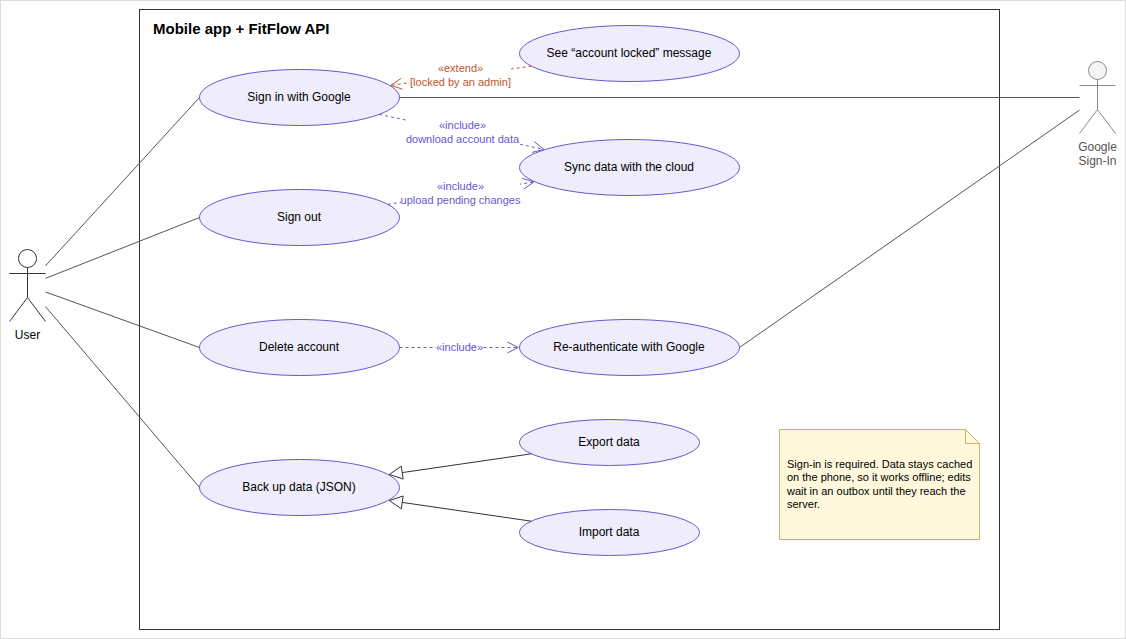
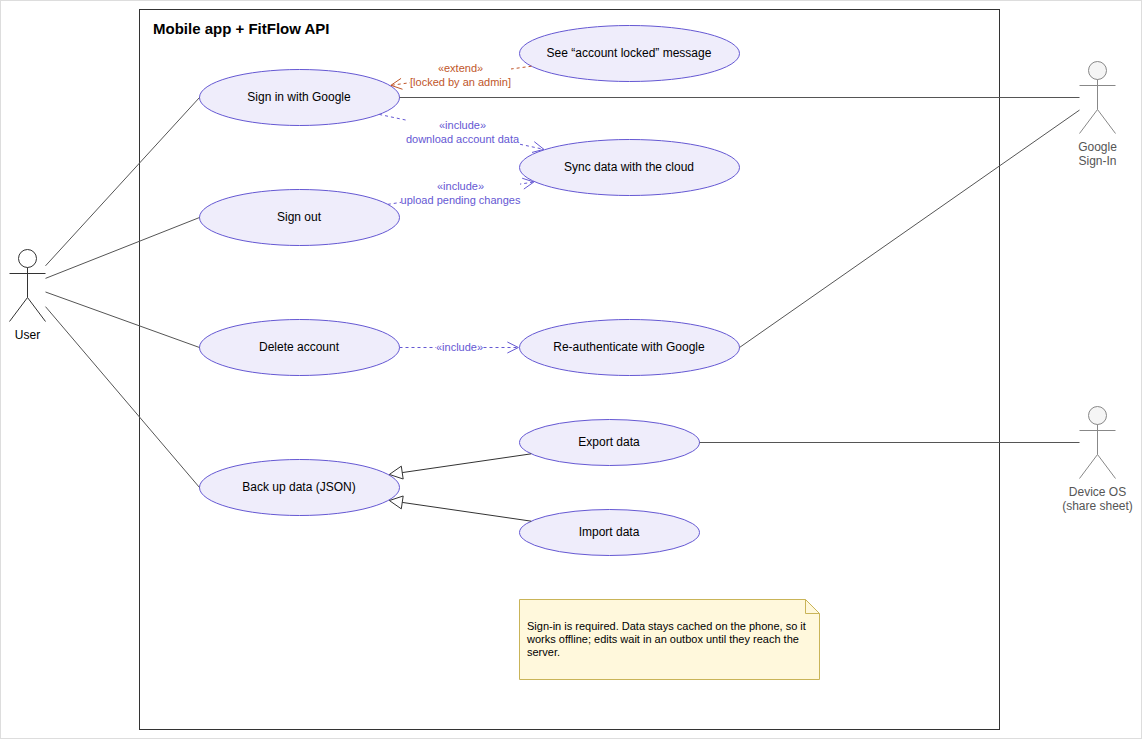
Match the use cases to what the app and admin web really do
- AI review is offered after a set of any analyzed exercise (not only
  squat); "Check exercise form" no longer hard-codes the exercise count.
- Counting sets with the camera includes "Count reps / hold & score form".
- The overview drops the vague "Get AI coaching": OpenAI links to Check
  exercise form, Plan workouts and Plan nutrition; the camera also serves
  guided workouts; Device OS serves progress (share) and backup (export).
- Account & data shows Export data going through the OS share sheet.
- "View chart as table" extends Monitor AI usage too.
- The model uses plain "&" (escaping is the emitters' job); the README
  explains refreshing the PNGs.

diff --git a/docs/usecase/generate.py b/docs/usecase/generate.py
@@ -53,17 +53,16 @@ def cases_in_column(ids_labels, x, y0, step, w=240, h=46):
 
 APP_CASES = [
     ('o1', 'Sign in with Google'),
-    ('o2', 'Plan workouts'),
-    ('o3', 'Do a guided workout'),
-    ('o4', 'Check exercise form'),
-    ('o5', 'Get AI coaching'),
-    ('o6', 'Plan nutrition &amp; log meals'),
-    ('o7', 'Track progress &amp; body metrics'),
-    ('o8', 'Manage settings &amp; reminders'),
-    ('o9', 'Back up &amp; sync data'),
+    ('o2', 'Do a guided workout'),
+    ('o3', 'Check exercise form'),
+    ('o4', 'Plan workouts'),
+    ('o5', 'Plan nutrition & log meals'),
+    ('o6', 'Track progress & body metrics'),
+    ('o7', 'Manage settings & reminders'),
+    ('o8', 'Back up & sync data'),
 ]
 ADMIN_CASES = [
-    ('a1', 'Sign in (email &amp; password)'),
+    ('a1', 'Sign in (email & password)'),
     ('a2', 'View statistics dashboard'),
     ('a3', 'Manage users'),
     ('a4', 'Manage workout templates'),
@@ -75,25 +74,29 @@ PAGES.append({
     'name': 'Overview',
     'title': 'FitFlow — Use cases (overview)',
     'shapes': [
-        box('boundary', 'sys', 'FitFlow system', 220, 20, 620, 1050),
-        box('package', 'pkgApp', 'Mobile app (Flutter) + FitFlow API', 240, 60, 580, 610),
-        box('package', 'pkgAdmin', 'Admin web (React) + admin API', 240, 700, 580, 350),
-        actor('user', 'User\n(trainee)', 90, 330),
-        actor('admin', 'Admin', 90, 840),
-        actor('google', 'Google\nSign-In', 960, row(0), system=True),
-        actor('camera', 'Camera +\nML Kit Pose', 960, row(2.5), system=True),
-        actor('openai', 'OpenAI\n(GPT models)', 960, row(4.6), system=True),
-        actor('os', 'Device OS\n(notifications, share)', 960, row(7), system=True),
+        box('boundary', 'sys', 'FitFlow system', 220, 20, 620, 990),
+        box('package', 'pkgApp', 'Mobile app (Flutter) + FitFlow API', 240, 60, 580, 550),
+        box('package', 'pkgAdmin', 'Admin web (React) + admin API', 240, 640, 580, 350),
+        actor('user', 'User\n(trainee)', 90, 300),
+        actor('admin', 'Admin', 90, 780),
+        actor('google', 'Google\nSign-In', 960, row(-0.4), system=True),
+        actor('camera', 'Camera +\nML Kit Pose', 960, row(1.7), system=True),
+        actor('openai', 'OpenAI\n(GPT models)', 960, row(3.6), system=True),
+        actor('os', 'Device OS\n(notifications, share)', 960, row(6), system=True),
         *cases_in_column(APP_CASES, 330, 100, 62),
-        *cases_in_column(ADMIN_CASES, 330, 750, 62),
+        *cases_in_column(ADMIN_CASES, 330, 690, 62),
     ],
     'edges': [
         *[('assoc', 'user', id, '') for id, _ in APP_CASES],
         *[('assoc', 'admin', id, '') for id, _ in ADMIN_CASES],
         ('assoc', 'o1', 'google', ''),
-        ('assoc', 'o4', 'camera', ''),
+        ('assoc', 'o2', 'camera', ''),
+        ('assoc', 'o3', 'camera', ''),
+        ('assoc', 'o3', 'openai', ''),
+        ('assoc', 'o4', 'openai', ''),
         ('assoc', 'o5', 'openai', ''),
-        ('assoc', 'o6', 'openai', ''),
+        ('assoc', 'o6', 'os', ''),
+        ('assoc', 'o7', 'os', ''),
         ('assoc', 'o8', 'os', ''),
     ],
 })
@@ -102,9 +105,10 @@ PAGES.append({
     'name': 'Account & data',
     'title': 'FitFlow — Account & data',
     'shapes': [
-        box('boundary', 'sys', 'Mobile app + FitFlow API', 220, 20, 860, 620),
+        box('boundary', 'sys', 'Mobile app + FitFlow API', 220, 20, 860, 720),
         actor('user', 'User', 90, 260),
         actor('google', 'Google\nSign-In', 1160, 72, system=True),
+        actor('os', 'Device OS\n(share sheet)', 1160, 453 - 36, system=True),
         uc('s1', 'Sign in with Google', C1, 80, 200),
         uc('s2', 'Sign out', C1, 200, 200),
         uc('s3', 'Delete account', C1, 330, 200),
@@ -114,7 +118,7 @@ PAGES.append({
         uc('s6', 'Re-authenticate with Google', C2, 330, 220),
         uc('s8', 'Export data', C2, 430, 180, 46),
         uc('s9', 'Import data', C2, 520, 180, 46),
-        box('note', 'n1', 'Sign-in is required. Data stays cached on the phone, so it works offline; edits wait in an outbox until they reach the server.', 860, 440, 200, 110),
+        box('note', 'n1', 'Sign-in is required. Data stays cached on the phone, so it works offline; edits wait in an outbox until they reach the server.', 600, 610, 300, 80),
     ],
     'edges': [
         ('assoc', 'user', 's1', ''),
@@ -129,6 +133,7 @@ PAGES.append({
         ('extend', 's7', 's1', '«extend»\n[locked by an admin]'),
         ('gen', 's8', 's4', ''),
         ('gen', 's9', 's4', ''),
+        ('assoc', 's8', 'os', ''),
     ],
 })
 
@@ -169,10 +174,10 @@ PAGES.append({
         uc('t4', 'Resume saved draft', C2 + 40, 270, 230),
         uc('t5', 'Count sets with camera', C2 + 40, 380, 230),
         uc('t6', 'Hands-free mode\n(spoken countdowns)', C3 + 120, 380, 230),
-        uc('f1', 'Check exercise form\n(7 exercises)', C1, 560, 210),
-        uc('f3', 'Count reps / hold\n&amp; score form', C2 + 40, 560, 230),
+        uc('f1', 'Check exercise form\n(every analyzed exercise)', C1, 560, 210),
+        uc('f3', 'Count reps / hold\n& score form', C2 + 40, 560, 230),
         uc('f2', 'Analyze pose in real time', C3 + 120, 470, 230),
-        uc('f4', 'Review squat set with AI', C2 + 40, 680, 230),
+        uc('f4', 'Review the set with AI', C2 + 40, 680, 230),
     ],
     'edges': [
         ('assoc', 'user', 't1', ''),
@@ -182,11 +187,11 @@ PAGES.append({
         ('extend', 't4', 't1', '«extend»\n[draft saved]'),
         ('extend', 't5', 't1', '«extend»\n[camera-checkable set]'),
         ('gen', 't6', 't5', ''),
-        ('include', 't5', 'f2', '«include»'),
+        ('include', 't5', 'f3', '«include»'),
         ('include', 'f1', 'f3', '«include»'),
         ('include', 'f3', 'f2', '«include»'),
         ('assoc', 'f2', 'camera', ''),
-        ('extend', 'f4', 'f1', '«extend»\n[squat]'),
+        ('extend', 'f4', 'f1', '«extend»\n[after a set]'),
         ('assoc', 'f4', 'openai', ''),
     ],
 })
@@ -200,7 +205,7 @@ PAGES.append({
         actor('openai', 'OpenAI', 1260, 190, system=True),
         uc('n1', 'View nutrition targets', C1, 60, 220),
         uc('n2', 'Update body profile', C1, 150, 220),
-        uc('n3', 'Log body weight\n&amp; view trend', C1, 240, 220),
+        uc('n3', 'Log body weight\n& view trend', C1, 240, 220),
         uc('n5', 'Log a meal', C1, 420, 220),
         uc('n4', 'Generate AI meal plan', C2, 60, 220),
         uc('n6', 'Log from food photo', C2, 330, 220, 46),
@@ -230,10 +235,10 @@ PAGES.append({
         actor('os', 'Device OS\n(notifications, share)', 1000, 300, system=True),
         uc('g1', 'View progress dashboard', C1, 60, 220),
         uc('g2', 'View muscle map', C1, 160, 220),
-        uc('g3', 'View achievements &amp; streak', C1, 260, 220),
+        uc('g3', 'View achievements & streak', C1, 260, 220),
         uc('g4', 'View session history', C1, 360, 220),
         uc('g6', 'Set workout reminders', C1, 480, 220),
-        uc('g7', 'Change theme &amp; units', C1, 570, 220, 46),
+        uc('g7', 'Change theme & units', C1, 570, 220, 46),
         uc('g5', 'Share summary card', C2, 60, 220),
         uc('g9', 'See exercises behind a muscle', C2, 160, 220),
         uc('g8', 'Edit or delete a session', C2, 360, 220),
@@ -254,17 +259,17 @@ PAGES.append({
     'shapes': [
         box('boundary', 'sys', 'Admin web (React) + admin API', 220, 20, 1220, 820),
         actor('admin', 'Admin', 90, 360),
-        uc('d0', 'Sign in (email &amp; password)', C1, 40, 220),
+        uc('d0', 'Sign in (email & password)', C1, 40, 220),
         uc('d1', 'View statistics dashboard', C1, 140, 220),
         uc('d2', 'Monitor AI usage', C1, 240, 220),
         uc('m1', 'Manage users', C1, 380, 220),
         uc('t0', 'Manage workout templates', C1, 620, 220),
         uc('d4', 'View chart as table', C2, 90, 200, 46),
         uc('d3', 'Choose date range', C2, 190, 200, 46),
-        uc('m2', 'Search &amp; filter users', C2, 330, 220, 46),
+        uc('m2', 'Search & filter users', C2, 330, 220, 46),
         uc('m3', 'View user details', C2, 430, 220, 46),
         uc('m4', 'Lock / unlock account', C3, 400, 220, 46),
-        uc('m5', 'Delete account &amp; data', C3, 480, 220, 46),
+        uc('m5', 'Delete account & data', C3, 480, 220, 46),
         uc('m6', 'Confirm by typing the email', C4, 480, 220, 46),
         uc('t1', 'Create template', C2, 550, 200, 44),
         uc('t2', 'Edit template', C2, 615, 200, 44),
@@ -275,6 +280,7 @@ PAGES.append({
     'edges': [
         *[('assoc', 'admin', id, '') for id in ('d0', 'd1', 'd2', 'm1', 't0')],
         ('extend', 'd4', 'd1', '«extend»'),
+        ('extend', 'd4', 'd2', '«extend»'),
         ('include', 'd1', 'd3', '«include»'),
         ('include', 'd2', 'd3', '«include»'),
         ('include', 'm1', 'm2', '«include»'),
@@ -300,7 +306,7 @@ def drawio(pages):
         out.append('        <mxCell id="0" />')
         out.append('        <mxCell id="1" parent="0" />')
         for kind, id, label, x, y, w, h in page['shapes']:
-            value = escape(label.replace('&amp;', '&').replace('\n', '<br>'), {'"': '&quot;'})
+            value = escape(label.replace('\n', '<br>'), {'"': '&quot;'})
             out.append(f'        <mxCell id="{id}" value="{value}" style="{STYLE[kind]}" vertex="1" parent="1">')
             out.append(f'          <mxGeometry x="{x}" y="{y}" width="{w}" height="{h}" as="geometry" />')
             out.append('        </mxCell>')
@@ -340,7 +346,7 @@ def plantuml(pages):
         out.append('skinparam actorStyle awesome')
         out.append('skinparam usecase {\n  BackgroundColor #EFEDFB\n  BorderColor #6558D3\n}')
         shapes = {s[1]: s for s in page['shapes']}
-        plain = lambda label: label.replace('&amp;', '&').replace('\n', '\\n')
+        plain = lambda label: label.replace('\n', '\\n')
         for kind, id, label, *_ in page['shapes']:
             if kind == 'actor':
                 out.append(f'actor "{plain(label)}" as {id}')

diff --git a/docs/usecase/README.md b/docs/usecase/README.md
@@ -21,3 +21,6 @@ generalization (hollow triangle) for kinds of a use case.
 `docs/usecase.puml` has the same model as PlantUML (automatic layout).
 Both files are generated from `generate.py`: edit the model there and run
 `python3 docs/usecase/generate.py docs/usecase.drawio docs/usecase.puml`.
+Then refresh the PNGs: open `docs/usecase.drawio` in draw.io and, for each
+page, File → Export as → PNG (border 10, transparent background off),
+saving over the matching file here.
